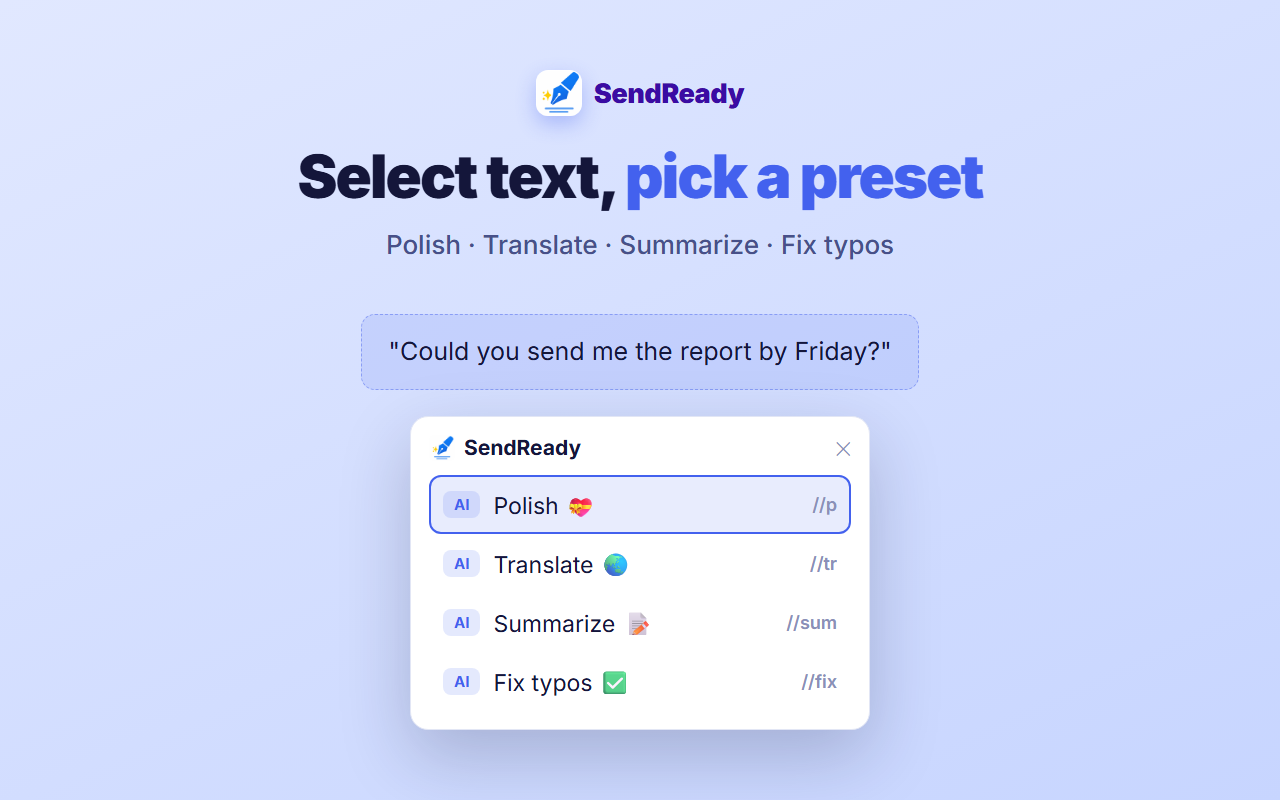
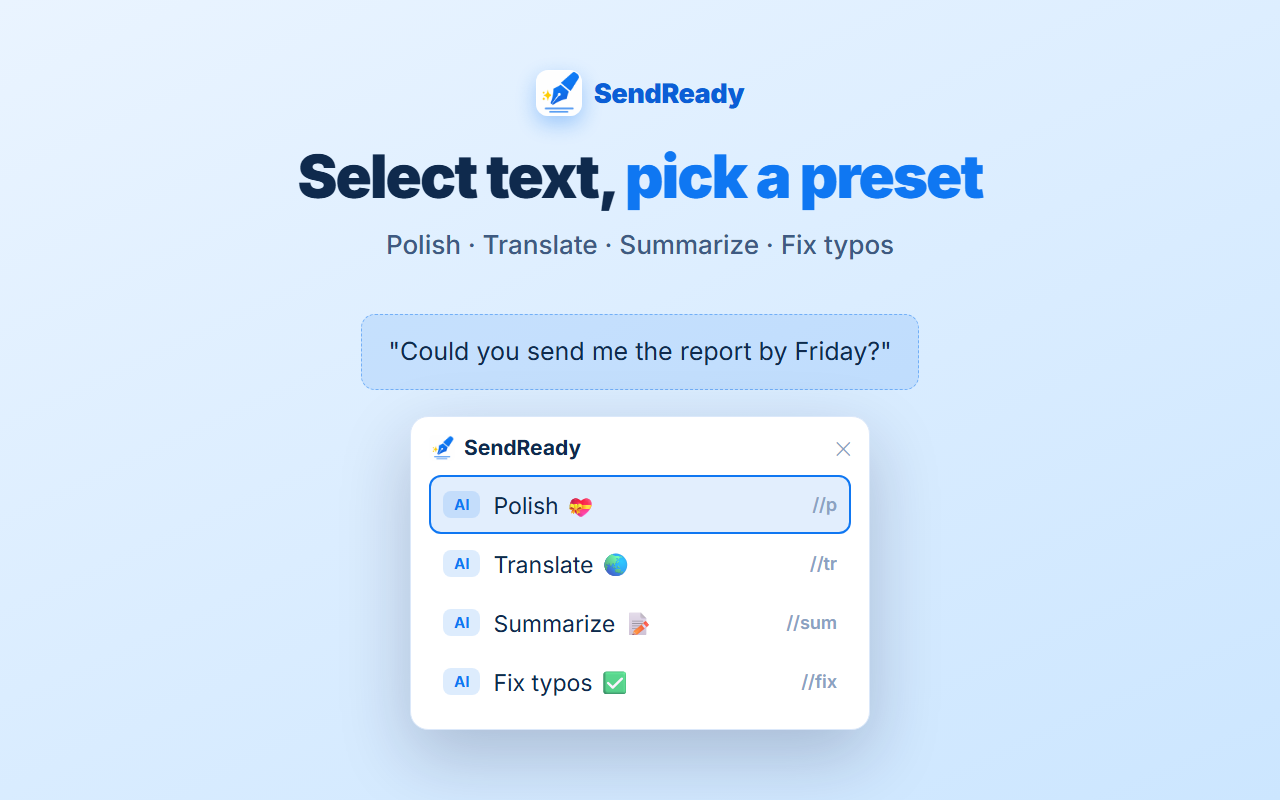
SendReady Chrome: store-image を正しいテーマカラー(白/青/黄)に修正
アプリアイコン由来の実テーマカラー（青 #0F77F2・黄 #FECE04・白）に
全面修正。誤って使っていたインディゴ#4361EE＋緑#10B981 を一掃。
スニペット系は黄/アンバー、AI系は青に。

Changed region(s): [[0.4688, 0.1875, 0.7812, 0.2812], [0.4688, 0.0938, 0.5938, 0.125]]

diff --git a/sendready-chrome/store-images.html b/sendready-chrome/store-images.html
@@ -10,9 +10,10 @@
 * { margin:0; padding:0; box-sizing:border-box; }
 body { background:#C8CCE0; font-family:'Inter',sans-serif; -webkit-font-smoothing:antialiased; }
 :root{
-  --ind:#4361EE; --ind-deep:#3A0CA3; --ind-pale:#818CF8; --snip:#10B981;
-  --bg:#FBFBFF; --bg-alt:#EEF1FF; --card:#FFFFFF;
-  --t1:#14163A; --t2:#475089; --t3:#8A90B8; --dv:#E2E6F5;
+  /* SendReady theme: white + blue + yellow (from app icon) */
+  --ind:#0F77F2; --ind-deep:#0B5ED6; --ind-pale:#5AA0FF; --snip:#C99400; --yellow:#FECE04;
+  --bg:#FFFFFF; --bg-alt:#EAF3FF; --card:#FFFFFF;
+  --t1:#0F2A4D; --t2:#3E5A82; --t3:#8AA2C2; --dv:#DBE8FA;
 }
 
 /* ── canvas (1280x800) ── */
@@ -23,7 +24,7 @@ body { background:#C8CCE0; font-family:'Inter',sans-serif; -webkit-font-smoothin
 .cap h1 .ind { color:var(--ind); }
 .cap p { font-size:26px; color:var(--t2); margin-top:18px; font-weight:500; }
 .brand { display:inline-flex; align-items:center; gap:12px; margin-bottom:26px; }
-.brand img { width:46px; height:46px; border-radius:12px; box-shadow:0 8px 20px rgba(67,97,238,.32); }
+.brand img { width:46px; height:46px; border-radius:12px; box-shadow:0 8px 20px rgba(15,119,242,.32); }
 .brand span { font-size:27px; font-weight:900; color:var(--ind-deep); letter-spacing:-.5px; }
 .glow { position:absolute; border-radius:50%; pointer-events:none; }
 .p-head img { border-radius:6px; }
@@ -39,13 +40,13 @@ body { background:#C8CCE0; font-family:'Inter',sans-serif; -webkit-font-smoothin
 .p-head { display:flex; align-items:center; gap:9px; margin-bottom:14px; }
 .p-head img { width:26px; height:26px; } .p-head b { font-size:21px; font-weight:700; color:var(--t1); } .p-head .x { margin-left:auto; color:var(--t3); font-size:19px; }
 .p-item { display:flex; align-items:center; gap:13px; padding:14px 14px; border-radius:12px; font-size:23px; color:var(--t1); }
-.p-item.hi { background:rgba(67,97,238,.12); outline:2.5px solid var(--ind); outline-offset:-2.5px; }
-.p-tag { font-size:15px; font-weight:700; padding:4px 11px; border-radius:8px; background:rgba(67,97,238,.14); color:var(--ind); }
-.p-tag.s { background:rgba(16,185,129,.14); color:var(--snip); }
+.p-item.hi { background:rgba(15,119,242,.12); outline:2.5px solid var(--ind); outline-offset:-2.5px; }
+.p-tag { font-size:15px; font-weight:700; padding:4px 11px; border-radius:8px; background:rgba(15,119,242,.14); color:var(--ind); }
+.p-tag.s { background:rgba(254,206,4,.14); color:var(--snip); }
 .p-item .t { flex:1; } .p-item .g { font-family:'Inter',monospace; font-size:18px; color:var(--t3); font-weight:600; }
 
 /* selected-text pill */
-.seltext { font-size:25px; color:var(--t1); background:rgba(67,97,238,.12); border:1.5px dashed rgba(67,97,238,.45); border-radius:14px; padding:18px 26px; max-width:640px; line-height:1.5; text-align:center; }
+.seltext { font-size:25px; color:var(--t1); background:rgba(15,119,242,.12); border:1.5px dashed rgba(15,119,242,.45); border-radius:14px; padding:18px 26px; max-width:640px; line-height:1.5; text-align:center; }
 
 /* before/after */
 .ba { display:flex; flex-direction:column; align-items:center; gap:22px; }
@@ -54,7 +55,7 @@ body { background:#C8CCE0; font-family:'Inter',sans-serif; -webkit-font-smoothin
 .ba-card .x { font-size:30px; line-height:1.45; }
 .ba-card.gray { background:#F1F3FA; border:1.5px solid var(--dv); }
 .ba-card.gray .l { color:var(--t3); } .ba-card.gray .x { color:var(--t2); }
-.ba-card.blue { background:rgba(67,97,238,.07); border:2px solid rgba(67,97,238,.4); }
+.ba-card.blue { background:rgba(15,119,242,.07); border:2px solid rgba(15,119,242,.4); }
 .ba-card.blue .l { color:var(--ind); } .ba-card.blue .x { color:var(--t1); font-weight:600; }
 .ba-mid { display:flex; align-items:center; gap:12px; }
 .ba-pill { background:var(--ind); color:#fff; border-radius:999px; padding:9px 24px; font-size:21px; font-weight:700; }
@@ -90,12 +91,12 @@ body { background:#C8CCE0; font-family:'Inter',sans-serif; -webkit-font-smoothin
 .pu-sec.a { color:var(--ind); } .pu-sec.s { color:var(--snip); }
 .pu-row { display:flex; align-items:center; gap:12px; padding:14px 15px; border:1px solid var(--dv); border-radius:13px; margin-bottom:9px; }
 .pu-rt { font-size:14px; font-weight:700; padding:4px 9px; border-radius:7px; }
-.pu-rt.a { background:rgba(67,97,238,.14); color:var(--ind); } .pu-rt.s { background:rgba(16,185,129,.14); color:var(--snip); }
+.pu-rt.a { background:rgba(15,119,242,.14); color:var(--ind); } .pu-rt.s { background:rgba(254,206,4,.14); color:var(--snip); }
 .pu-rm { flex:1; } .pu-rm .t { font-weight:700; font-size:19px; color:var(--t1); } .pu-rm .d { font-size:15px; color:var(--t3); }
 .pu-rg { font-family:'Inter',monospace; font-size:17px; color:var(--t3); font-weight:600; }
 
 /* feature marquee 1400x560 */
-.feat-banner { width:1400px; height:560px; position:relative; overflow:hidden; margin:0 auto 56px; background:linear-gradient(135deg,#3A0CA3 0%,#4361EE 55%,#4895EF 100%); display:flex; align-items:center; padding:0 90px; gap:60px; }
+.feat-banner { width:1400px; height:560px; position:relative; overflow:hidden; margin:0 auto 56px; background:linear-gradient(135deg,#0B5ED6 0%,#0F77F2 55%,#4DA3FF 100%); display:flex; align-items:center; padding:0 90px; gap:60px; }
 .fb-left { flex:1; color:#fff; z-index:2; }
 .fb-brand { display:inline-flex; align-items:center; gap:12px; margin-bottom:26px; }
 .fb-brand img { width:48px; height:48px; border-radius:12px; box-shadow:0 8px 22px rgba(0,0,0,.3); }
@@ -111,8 +112,8 @@ body { background:#C8CCE0; font-family:'Inter',sans-serif; -webkit-font-smoothin
 <body>
 
 <!-- ════ IMG 1: Polish (before → after) ════ -->
-<div class="si" id="img1" style="background:linear-gradient(155deg,#EAEFFF,#D3DDFF);">
-  <div class="glow" style="right:-120px;top:-120px;width:560px;height:560px;background:radial-gradient(circle,rgba(67,97,238,.1),transparent 60%);"></div>
+<div class="si" id="img1" style="background:linear-gradient(155deg,#FFFFFF,#DCEEFF);">
+  <div class="glow" style="right:-120px;top:-120px;width:560px;height:560px;background:radial-gradient(circle,rgba(15,119,242,.1),transparent 60%);"></div>
   <div class="cap"><div class="brand"><img src="icons/icon128.png" alt=""><span>SendReady</span></div><h1>Polish your words <span class="ind">with AI</span></h1><p>From a quick draft to ready-to-send — in one tap</p></div>
   <div class="ba">
     <div class="ba-card gray"><div class="l">YOU TYPED</div><div class="x">tmrw 10 works, thx</div></div>
@@ -122,7 +123,7 @@ body { background:#C8CCE0; font-family:'Inter',sans-serif; -webkit-font-smoothin
 </div>
 
 <!-- ════ IMG 2: Select → menu ════ -->
-<div class="si" id="img2" style="background:linear-gradient(155deg,#E1E8FF,#C7D5FF);">
+<div class="si" id="img2" style="background:linear-gradient(155deg,#EAF4FF,#CCE6FF);">
   <div class="cap"><div class="brand"><img src="icons/icon128.png" alt=""><span>SendReady</span></div><h1>Select text, <span class="ind">pick a preset</span></h1><p>Polish · Translate · Summarize · Fix typos</p></div>
   <div style="display:flex;flex-direction:column;align-items:center;gap:26px;">
     <div class="seltext">"Could you send me the report by Friday?"</div>
@@ -137,7 +138,7 @@ body { background:#C8CCE0; font-family:'Inter',sans-serif; -webkit-font-smoothin
 </div>
 
 <!-- ════ IMG 3: Inline trigger ════ -->
-<div class="si" id="img3" style="background:linear-gradient(155deg,#EAEFFF,#D3DDFF);">
+<div class="si" id="img3" style="background:linear-gradient(155deg,#FFFFFF,#DCEEFF);">
   <div class="cap"><div class="brand"><img src="icons/icon128.png" alt=""><span>SendReady</span></div><h1>Type a trigger, <span class="ind">hit Enter</span></h1><p>Write //p before your text — AI transforms it in place</p></div>
   <div class="io">
     <div class="win" style="width:470px;">
@@ -158,7 +159,7 @@ body { background:#C8CCE0; font-family:'Inter',sans-serif; -webkit-font-smoothin
 </div>
 
 <!-- ════ IMG 4: Reply ════ -->
-<div class="si" id="img4" style="background:linear-gradient(155deg,#E1E8FF,#C7D5FF);">
+<div class="si" id="img4" style="background:linear-gradient(155deg,#EAF4FF,#CCE6FF);">
   <div class="cap"><div class="brand"><img src="icons/icon128.png" alt=""><span>SendReady</span></div><h1>Turn a message <span class="ind">into a reply</span></h1><p>Pick a tone — AI writes the reply for you</p></div>
   <div class="io" style="align-items:stretch;">
     <div class="win msg" style="width:460px;">
@@ -179,7 +180,7 @@ body { background:#C8CCE0; font-family:'Inter',sans-serif; -webkit-font-smoothin
 </div>
 
 <!-- ════ IMG 5: Snippets ════ -->
-<div class="si" id="img5" style="background:linear-gradient(155deg,#EAEFFF,#D3DDFF);">
+<div class="si" id="img5" style="background:linear-gradient(155deg,#FFFFFF,#DCEEFF);">
   <div class="cap"><div class="brand"><img src="icons/icon128.png" alt=""><span>SendReady</span></div><h1>Instant <span class="ind" style="color:var(--snip);">text snippets</span></h1><p>Type ;sig and your signature pops in — no AI needed</p></div>
   <div class="io">
     <div class="win" style="width:430px;">
@@ -202,7 +203,7 @@ body { background:#C8CCE0; font-family:'Inter',sans-serif; -webkit-font-smoothin
 </div>
 
 <!-- ════ IMG 6: Your presets ════ -->
-<div class="si" id="img6" style="background:linear-gradient(155deg,#E1E8FF,#C7D5FF);">
+<div class="si" id="img6" style="background:linear-gradient(155deg,#EAF4FF,#CCE6FF);">
   <div class="cap"><div class="brand"><img src="icons/icon128.png" alt=""><span>SendReady</span></div><h1>Make it <span class="ind">your own</span></h1><p>Up to 10 AI presets and 10 snippets — your triggers</p></div>
   <div class="popup">
     <div class="pu-hd"><div class="pu-ttl"><img src="icons/icon128.png">SendReady</div><span class="pu-use">Today 12 / 50</span></div>
